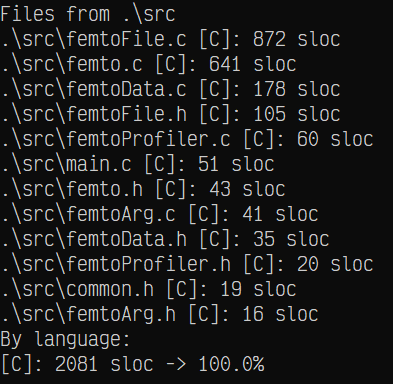
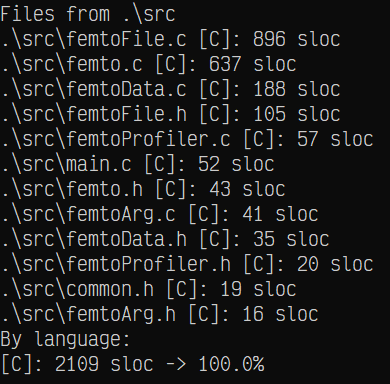
Update sloc

diff --git a/README.md b/README.md
@@ -10,7 +10,7 @@ It is a bigger more feature-rich version of my other console text editor [atto](
 It is also written in vanilla C + Win32 Console API - it's designed to be used solely on Microsoft Windows.
 It has been compiled with MinGW GCC.
 
-Currently, my other tool [slocWin32](https://github.com/makuke1234/slocWin32) reports 2081 source code lines (excluding whitespace & comments):
+Currently, my other tool [slocWin32](https://github.com/makuke1234/slocWin32) reports 2109 source code lines (excluding whitespace & comments):
 
 ![SLOC](./images/sloc.png)
 
@@ -120,6 +120,7 @@ Currently, my other tool [slocWin32](https://github.com/makuke1234/slocWin32) re
     * [x] Refactor/optimise codebase using same optimisations applied to [atto](https://github.com/makuke1234/atto)
     * [ ] Optimise screen buffer updating frequency on keyboard/mouse input
     * [ ] Only update line that's being edited, if viewport doesn't change
+	* [x] Refactor, check all pointers in debug mode
 * 1.0
     * [x] Theoretical multi-file support
     * [x] Mouse scrolling support
